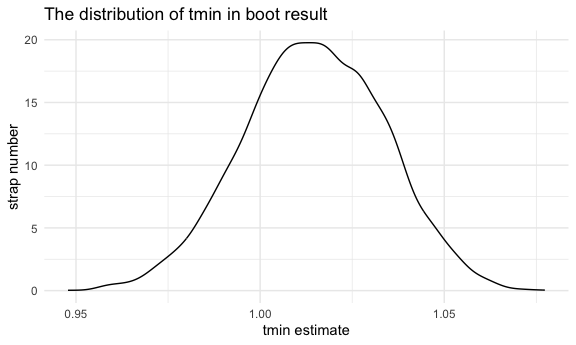
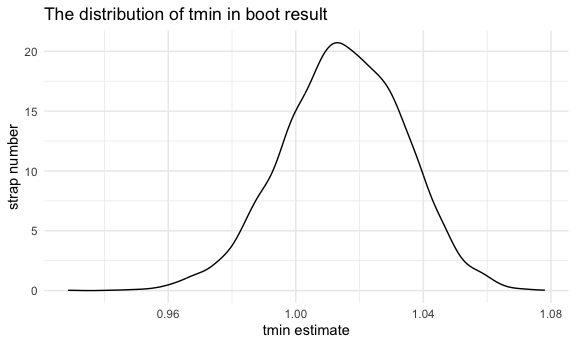
plotting the distribution for logbeta and rsquared as well

diff --git a/p8105_hw6_zl2746.md b/p8105_hw6_zl2746.md
@@ -88,18 +88,18 @@ boot_results2
 ```
 
     ## # A tibble: 5,000 × 6
-    ##    strap_number r_squared `(Intercept)`  tmin        prcp log_beta
-    ##           <int>     <dbl>         <dbl> <dbl>       <dbl>    <dbl>
-    ##  1            1     0.918          8.37 1.02  -0.00689      NaN   
-    ##  2            2     0.931          8.00 1.03  -0.00722      NaN   
-    ##  3            3     0.917          7.84 1.02  -0.00314      NaN   
-    ##  4            4     0.903          8.31 0.990  0.00343       -5.69
-    ##  5            5     0.907          7.96 1.02  -0.00275      NaN   
-    ##  6            6     0.910          7.95 1.02  -0.00183      NaN   
-    ##  7            7     0.906          7.94 1.01  -0.00000970   NaN   
-    ##  8            8     0.911          8.09 1.00   0.00134       -6.61
-    ##  9            9     0.901          8.18 0.993 -0.00224      NaN   
-    ## 10           10     0.928          8.00 1.03  -0.00959      NaN   
+    ##    strap_number r_squared `(Intercept)`  tmin      prcp log_beta
+    ##           <int>     <dbl>         <dbl> <dbl>     <dbl>    <dbl>
+    ##  1            1     0.912          8.22 1.00  -0.00245    NaN   
+    ##  2            2     0.905          8.09 1.01  -0.00309    NaN   
+    ##  3            3     0.905          8.16 0.998  0.000889    -7.03
+    ##  4            4     0.929          7.84 1.05  -0.00771    NaN   
+    ##  5            5     0.923          8.45 1.00  -0.00680    NaN   
+    ##  6            6     0.922          7.89 1.02  -0.00463    NaN   
+    ##  7            7     0.904          8.10 0.985  0.00184     -6.31
+    ##  8            8     0.905          7.87 1.01   0.00260     -5.94
+    ##  9            9     0.910          8.41 1.01  -0.00208    NaN   
+    ## 10           10     0.915          8.11 1.01  -0.00394    NaN   
     ## # ℹ 4,990 more rows
 
 ``` r
@@ -138,6 +138,42 @@ ggsave("The distribution of prcp in boot result for problem 2.jpg")
 
     ## Saving 6 x 3.6 in image
 
+``` r
+# look at the distribution of log(beta1*beta2)
+boot_results2 |> 
+  ggplot(aes(x = log_beta)) + 
+  geom_density() +
+  xlab("log(beta1*beta2)") +
+  ylab("strap number") +
+  ggtitle("The distribution of log(beta1*beta2) in boot result")
+```
+
+<img src="p8105_hw6_zl2746_files/figure-gfm/unnamed-chunk-3-3.png" width="90%" />
+
+``` r
+ggsave("The distribution of log(beta1*beta2) in boot result for problem 2.jpg")
+```
+
+    ## Saving 6 x 3.6 in image
+
+``` r
+# look at the distribution of r squared
+boot_results2 |> 
+  ggplot(aes(x = r_squared)) + 
+  geom_density() +
+  xlab("R squared") +
+  ylab("strap number") +
+  ggtitle("The distribution of R squared in boot result")
+```
+
+<img src="p8105_hw6_zl2746_files/figure-gfm/unnamed-chunk-3-4.png" width="90%" />
+
+``` r
+ggsave("The distribution of R squared in boot result for problem 2.jpg")
+```
+
+    ## Saving 6 x 3.6 in image
+
 **The distribution for tmin is symmetric and unimodal, centered around
 1.00, with estimates ranging roughly from 0.95 to 1.05. This suggests
 that the bootstrap method produced a reliable estimate for tmin with a
@@ -147,6 +183,17 @@ narrow spread and precision.**
 of behavior or relationships between prcp and tmax within the dataset.
 The presence of bimodality in the bootstrap distribution could be
 indicative of a non-linear relationship**
+
+**The distribution for log(beta1 \* beta2) is sharply peaked and
+asymmetric, which is left skewed. The long tail stretching toward larger
+negative values shows that there are a few bootstrap samples where the
+product of the coefficients is very small.**
+
+**The distribution for R squared is a unimodal, nearly symmetrical
+shape. It is centered around a value slightly less than 0.925,
+suggesting that most of the bootstrap models have a high proportion of
+variance explained. The peak’s sharpness indicates consistency across
+bootstrap samples.**
 
 Using the 5000 bootstrap estimates, identify the 2.5% and 97.5%
 quantiles to provide a 95% confidence interval for r̂ 2 and log(β̂ 1 \* β̂
@@ -165,7 +212,7 @@ boot_results2 |>
     ## # A tibble: 1 × 2
     ##   ci_lower ci_upper
     ##      <dbl>    <dbl>
-    ## 1    -9.25    -4.60
+    ## 1    -9.02    -4.57
 
 ``` r
 # construct a CI for r squared
@@ -179,7 +226,7 @@ boot_results2 |>
     ## # A tibble: 1 × 2
     ##   ci_lower ci_upper
     ##      <dbl>    <dbl>
-    ## 1    0.889    0.941
+    ## 1    0.888    0.941
 
 ## Problem 3
 
